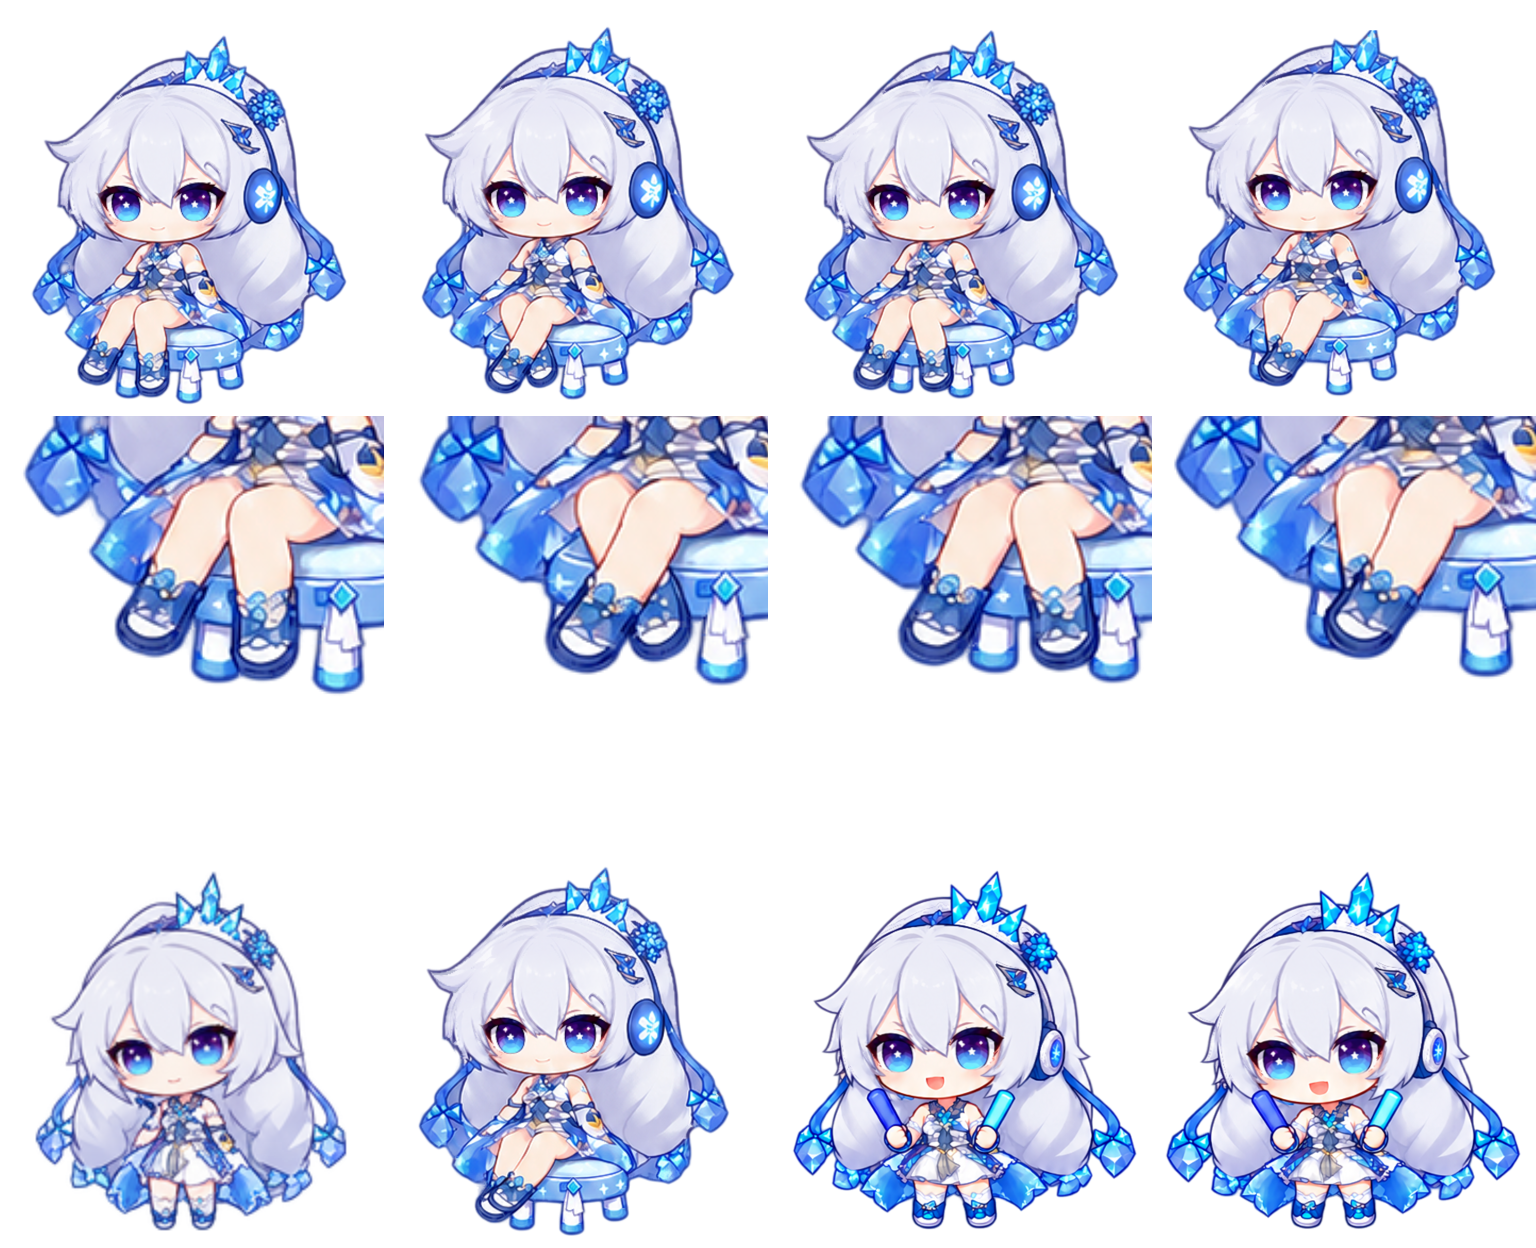
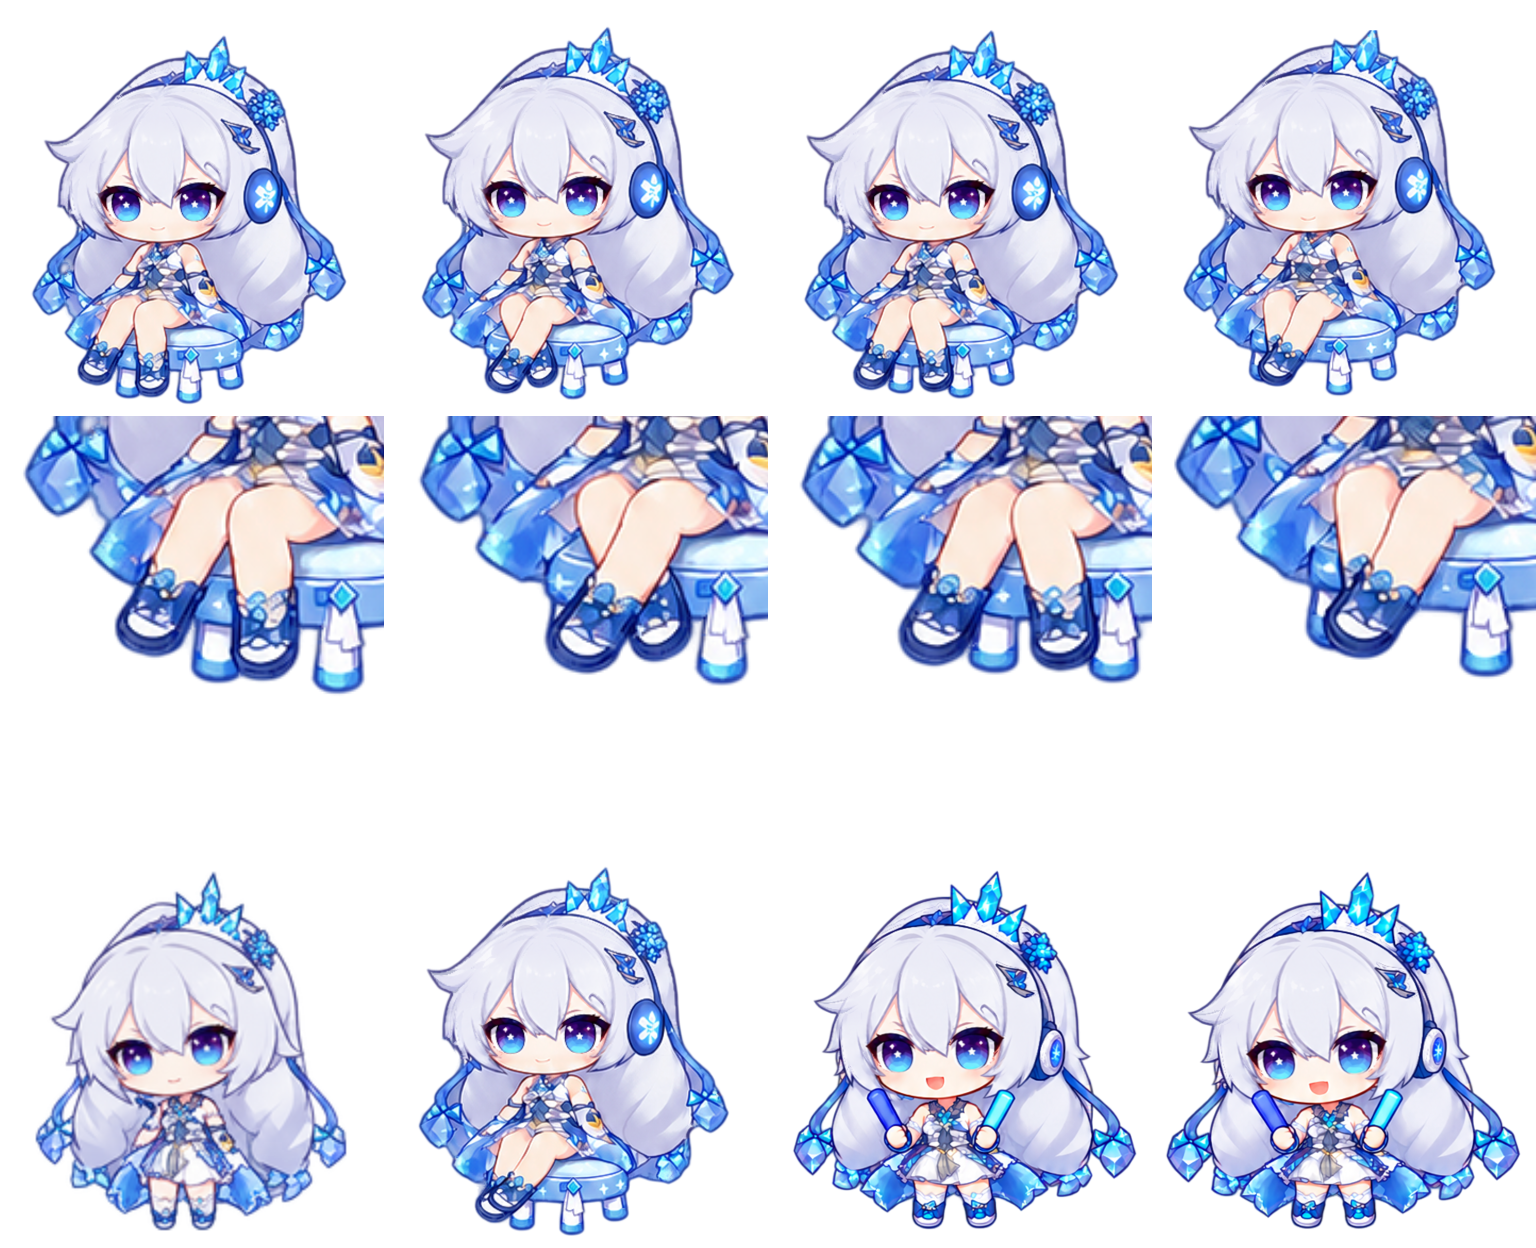
Align all seated variants and winter cheering with early outfit artwork

diff --git a/docs/demo/music-style-0.9.14/index.html b/docs/demo/music-style-0.9.14/index.html
@@ -1,0 +1,92 @@
+<!doctype html>
+<html lang="zh-CN">
+<head>
+<meta charset="utf-8">
+<meta name="viewport" content="width=device-width, initial-scale=1">
+<title>琪亚娜 · 音乐动作逐帧对照</title>
+<style>
+:root{color-scheme:light;--page:#f5f3f7;--card:#fff;--ink:#342f42;--muted:#625e70;--line:#dedbe3;--accent:#614e91}
+:root.dark{color-scheme:dark;--page:#24232b;--card:#35333e;--ink:#eeeaf7;--muted:#c8c1d6;--line:#55515f;--accent:#d2c2ff}
+*{box-sizing:border-box}body{background:var(--page);color:var(--ink);font:15px/1.5 system-ui,"Microsoft YaHei",sans-serif;margin:0}
+main{margin:clamp(16px,5vh,60px) auto;padding:0 18px;max-width:840px}h1{font-size:clamp(23px,4vw,34px);margin:0 0 22px}
+.controls,.transport{display:flex;align-items:center;flex-wrap:wrap;gap:10px 16px}
+label{display:flex;align-items:center;gap:6px;color:var(--muted)}
+select,button{font:inherit;border:1px solid var(--line);border-radius:8px;color:var(--ink);background:var(--card);padding:5px 9px}
+button{cursor:pointer}input{accent-color:var(--accent)}:focus-visible{outline:2px solid var(--accent);outline-offset:2px}
+.poses{display:grid;grid-template-columns:repeat(3,minmax(0,1fr));gap:10px;margin:20px 0}
+figure{background:var(--card);border:1px solid var(--line);border-radius:14px;margin:0;text-align:center;padding:12px 2px}
+canvas{display:block;width:100%;max-width:200px;height:auto;margin:auto}figcaption{color:var(--muted);font-size:14px}
+figure:last-child figcaption{color:var(--accent);font-weight:650}output{font-variant-numeric:tabular-nums;min-width:7em}input[type=range]{width:min(220px,43vw)}
+@media(max-width:550px){.poses{gap:4px}figure{border-radius:8px}figcaption{font-size:12px}.controls{gap:7px}}
+</style>
+</head>
+<body><main>
+<h1>音乐动作逐帧对照</h1>
+<div class="controls">
+<label>衣装 <select id="skin"><option value="kiana-winter-wish-round">冬祈新愿</option><option value="kiana-fiery-wishing-star-round">炽愿吉星原装</option><option value="time-runner-kiana-round">时砾逐光</option></select></label>
+<label>音乐动作 <select id="mode"></select></label>
+<label>早期参照 <select id="ref"><option>待机</option><option>招手</option><option>整理头发</option><option>伸懒腰</option><option>等待回应</option></select></label>
+<label>查看 <select id="crop"><option>整体</option><option>放大发缘</option><option>放大衣摆与鞋面</option></select></label>
+<label>底色 <select id="bg"><option>浅色</option><option>深色</option></select></label>
+</div>
+<div class="poses">
+<figure><canvas width="200" height="216" aria-label="早期参照帧"></canvas><figcaption>早期参照帧</figcaption></figure>
+<figure><canvas width="200" height="216" aria-label="修正前动作"></canvas><figcaption>0.9.13 修正前</figcaption></figure>
+<figure><canvas width="200" height="216" aria-label="修正后动作"></canvas><figcaption>0.9.14 修正后</figcaption></figure>
+</div>
+<div class="transport"><button id="play">暂停</button><button id="prev">上一帧</button><button id="next">下一帧</button><input id="seek" type="range" min="0" step="1" aria-label="播放位置"><output id="frame"></output></div>
+<p id="error" role="alert" hidden>图集读取失败。请把本页与同目录下的 PNG 文件一起打开。</p>
+</main>
+<script>
+'use strict';
+const el=id=>document.getElementById(id);
+const canvases=[...document.querySelectorAll('canvas')];
+const modes=[
+ {name:'原版坐姿',row:0},{name:'头部轻晃',row:1},{name:'侧向点头',row:2},
+ {name:'轻微应援',row:4},{name:'活力应援',row:5}
+];
+const seated=[0,1,2,3,4,5,6,7,8,9,10,11,10,9,8,7,6,5,4,3,2,1];
+const cheering=[0,1,2,3,4,5];
+const crops=[[0,0,200,216],[30,12,140,151],[50,117,92,99]];
+const cache=new Map();
+let row=4,order=[],starts=[],duration=0,time=0,last=performance.now(),playing=!matchMedia('(prefers-reduced-motion: reduce)').matches;
+function atlas(side){
+ const key=el('skin').value+'-'+side+'.png';
+ if(!cache.has(key)){
+  const img=new Image();img.onload=draw;img.onerror=()=>{el('error').hidden=false};cache.set(key,img);img.src=key;
+ }
+ return cache.get(key);
+}
+function chooseSkin(){
+ const options=el('skin').selectedIndex===0?modes:modes.slice(0,3);
+ if(!options.some(m=>m.row===row))row=0;
+ el('mode').replaceChildren(...options.map(m=>new Option(m.name,m.row)));el('mode').value=row;chooseMode();
+}
+function chooseMode(){
+ row=Number(el('mode').value);order=row<3?seated:cheering;starts=[];duration=0;
+ order.forEach((pose,i)=>{starts.push(duration);duration+=row<3?9600/order.length:row===4?240:i%2===0?180:120});
+ el('seek').max=order.length-1;time=0;last=performance.now();draw();
+}
+function step(){for(let i=starts.length-1;i>0;i--)if(time>=starts[i])return i;return 0}
+function paint(canvas,img,r,col,angle){
+ const ctx=canvas.getContext('2d');ctx.clearRect(0,0,200,216);if(!img.complete||!img.naturalWidth)return;
+ const [x,y,w,h]=crops[el('crop').selectedIndex];
+ ctx.save();ctx.scale(200/w,216/h);ctx.translate(-x,-y);
+ if(angle){ctx.translate(91.08,203.94);ctx.rotate(angle);ctx.translate(-91.08,-203.94)}
+ ctx.imageSmoothingQuality='high';ctx.drawImage(img,col*200,r*216,200,216,0,0,200,216);ctx.restore();
+}
+function draw(){
+ const pos=step(),pose=order[pos];
+ const angle=row===4?1.1*Math.PI/180*Math.sin(2*Math.PI*time/1440):0;
+ paint(canvases[0],atlas('after'),3,el('ref').selectedIndex,0);
+ paint(canvases[1],atlas('before'),row,pose,angle);paint(canvases[2],atlas('after'),row,pose,angle);
+ el('seek').value=pos;el('frame').value='画稿 '+(pose+1)+' / '+(row<3?12:6);el('play').textContent=playing?'暂停':'播放';
+}
+function seek(pos){playing=false;time=starts[(pos+order.length)%order.length];draw()}
+el('skin').onchange=chooseSkin;el('mode').onchange=chooseMode;el('ref').onchange=el('crop').onchange=draw;
+el('bg').onchange=()=>document.documentElement.classList.toggle('dark',el('bg').selectedIndex===1);
+el('seek').oninput=()=>seek(Number(el('seek').value));el('prev').onclick=()=>seek(step()-1);el('next').onclick=()=>seek(step()+1);
+el('play').onclick=()=>{playing=!playing;last=performance.now();draw()};
+function tick(now){if(playing){time=(time+now-last)%duration;draw()}last=now;requestAnimationFrame(tick)}
+chooseSkin();requestAnimationFrame(tick);
+</script></body></html>

diff --git a/source/Maintenance.cs b/source/Maintenance.cs
@@ -4,7 +4,7 @@ namespace KianaPet {
  public sealed class PackageManifest {public int schema;public string product,version;public PackageEntry[] files;}
  public sealed class PreparedUpdate {public string Folder,Version,Notes;public PackageManifest Manifest;}
  public static class Maintenance {
-  public const string Version="0.9.13";
+  public const string Version="0.9.14";
   public static bool RuntimeFile(string path){return Regex.IsMatch(path,@"^(assets/|licenses/|docs/demo/|docs/(?:music-animations|toolbar-styles|optional-connections)\.md$|docs/music-generation-\d+\.\d+\.\d+\.json$|KianaHookReceiver\.exe(?:\.config)?$|KianaDesktopPet\.exe(?:\.config)?$|tools/(?:Send-TaskNotice|Invoke-TaskWithNotice)\.ps1$|docs/companion-features\.md$|README\.md$|CHANGELOG\.md$|ASSET_NOTICE\.md$|LICENSE$|update-worker\.ps1$)");}
   public static string SafePath(string root,string relative){if(string.IsNullOrWhiteSpace(relative)||relative.Contains(":")||relative.Contains("\\")||relative.StartsWith("/")||relative.Split('/').Any(p=>p==".."||p=="."||p.Length==0)||relative.Split('/').Any(p=>p.EndsWith(".")||p.EndsWith(" ")))throw new Exception("安装包包含无效路径。");string prefix=Path.GetFullPath(root).TrimEnd(Path.DirectorySeparatorChar)+Path.DirectorySeparatorChar;string target=Path.GetFullPath(Path.Combine(root,relative));if(!target.StartsWith(prefix,StringComparison.OrdinalIgnoreCase))throw new Exception("文件超出安装范围。");return target;}
   public static string Hash(Stream stream){using(var sha=SHA256.Create())return BitConverter.ToString(sha.ComputeHash(stream)).Replace("-","").ToLowerInvariant();}

diff --git a/README.md b/README.md
@@ -2,6 +2,10 @@
 
 ## 效果演示
 
+### 三种坐姿与冬祈新愿应援（0.9.14）
+
+三套 Q 版衣装的原版坐姿、头部轻晃、侧向点头，以及冬祈新愿的两种应援均已逐帧对齐早期画稿。下载后打开对照页，可同步播放前后版本，逐帧查看发缘、衣摆和鞋面，也可切换深浅底色。[查看全部 11 组动作](docs/demo/music-style-0.9.14/index.html) · [查看局部对比图](docs/demo/music-style-0.9.14/comparison.png)
+
 ### 坐着听歌的发梢与鞋子（0.9.13）
 
 冬祈新愿的银发、晶饰与裙边已校正墨线宽度。时砾逐光的鞋面花纹与薄鞋底按每一帧的脚尖方向校正。原版坐姿、头部轻晃和侧向点头均已更新。[查看同一帧的局部动态对照](docs/demo/seated-edges-0.9.13.png)
@@ -62,7 +66,7 @@
 git clone https://github.com/FeiyangHong/Kiana-Desktop-Pet.git
 cd Kiana-Desktop-Pet
 .\build-release.ps1
-.\dist\Kiana-Desktop-Pet-0.9.13-Windows\install.ps1 -InstallRoot 'E:\Kiana-Desktop-Pet\runtime\KianaDesktopPet'
+.\dist\Kiana-Desktop-Pet-0.9.14-Windows\install.ps1 -InstallRoot 'E:\Kiana-Desktop-Pet\runtime\KianaDesktopPet'
 ```
 
 `-InstallRoot` 可改为本机希望保存程序、设置与日志的目录；ChatGPT 平滑联动组件会装在其同级的 `KianaSmoothPet`。首次启动桌宠请使用安装器生成的“琪亚娜桌宠”快捷方式。另一台电脑拉取更新后重新构建、安装即可；本机设置会保留并在更新前备份。

diff --git a/CHANGELOG.md b/CHANGELOG.md
@@ -1,3 +1,9 @@
+# 0.9.14 · 三种坐姿与冬祈新愿应援
+
+- 校正冬祈新愿轻微应援、活力应援的银发高光过渡和晶饰描边，逐帧核对举棒时的遮挡与闭眼笑。
+- 三套 Q 版衣装分别校正原版坐姿、头部轻晃和侧向点头。冬祈新愿侧重冰蓝衣摆与鞋饰，炽愿吉星原装修整马尾、侧发交点与红色衣饰，时砾逐光调整蓝紫裙片和马尾外线。
+- 对照页可切换全部 11 组动作，用同一播放位置比较修正前后和各衣装的早期参照帧。
+
 # 0.9.13 · 冬祈新愿与时砾逐光的坐姿细节
 
 - 按早期画稿收窄冬祈新愿发梢、晶饰和裙边的灰色过渡，逐帧对齐侧刘海翘起处的内侧阴影与外墨线。
